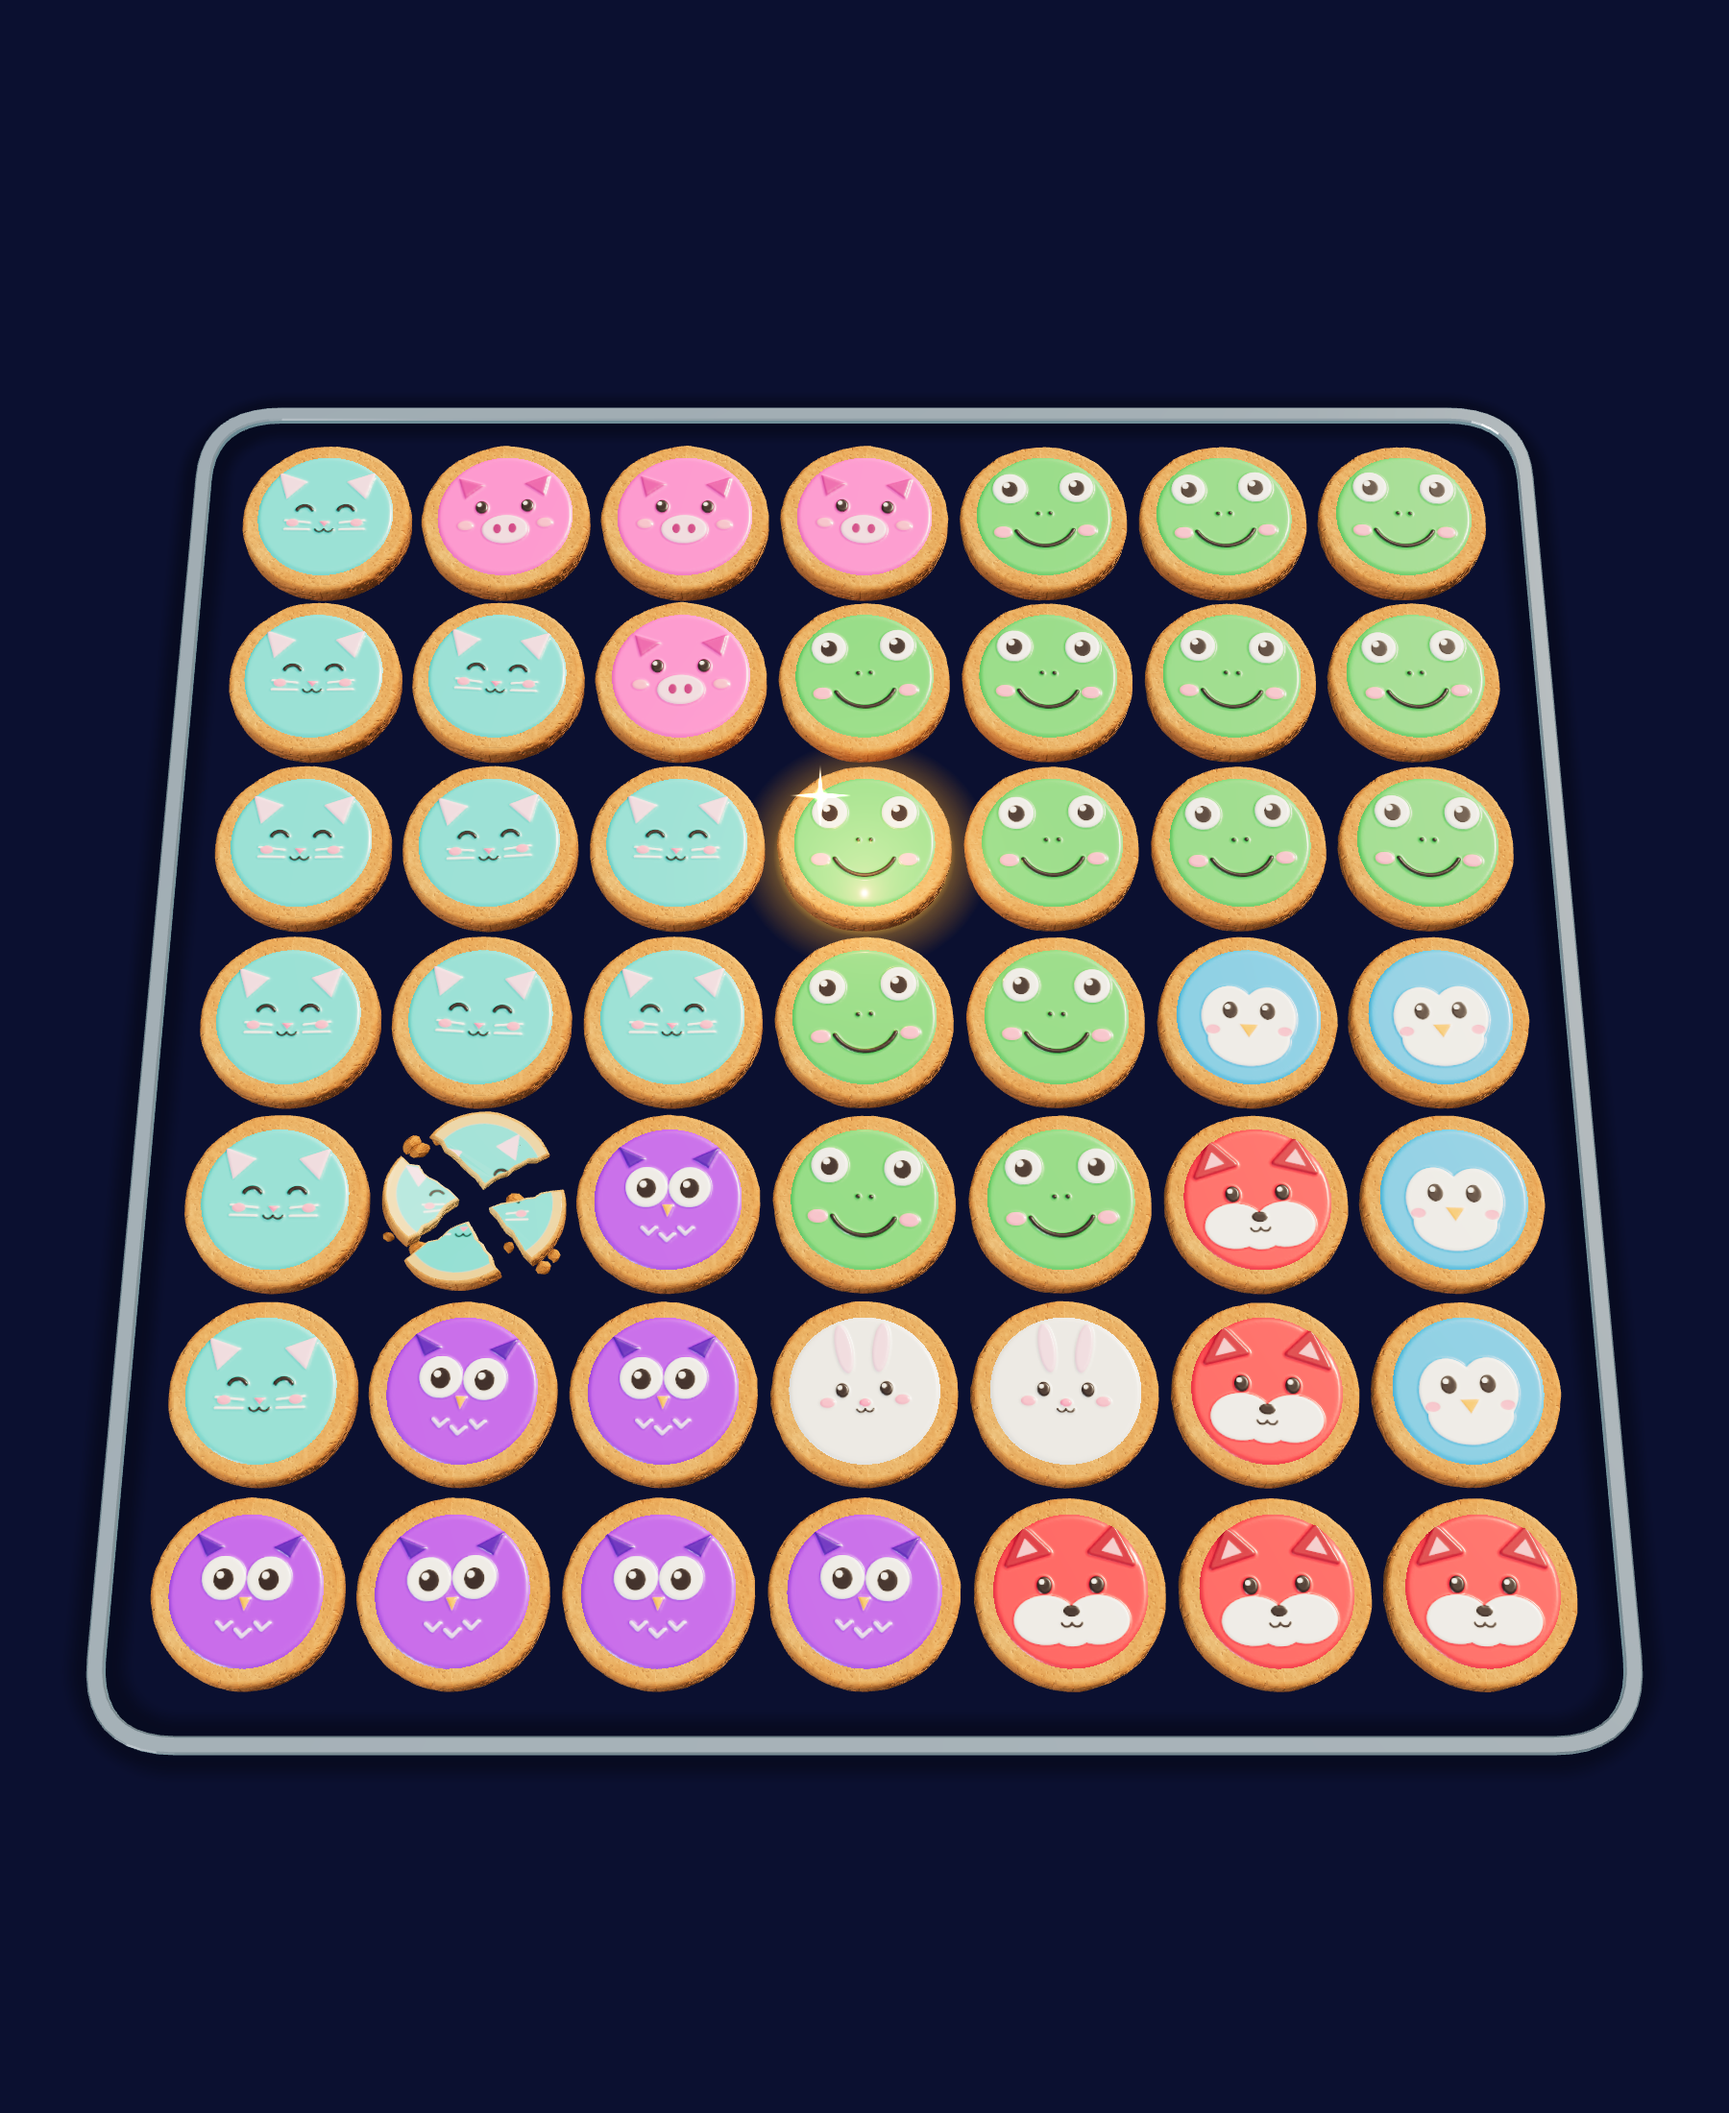
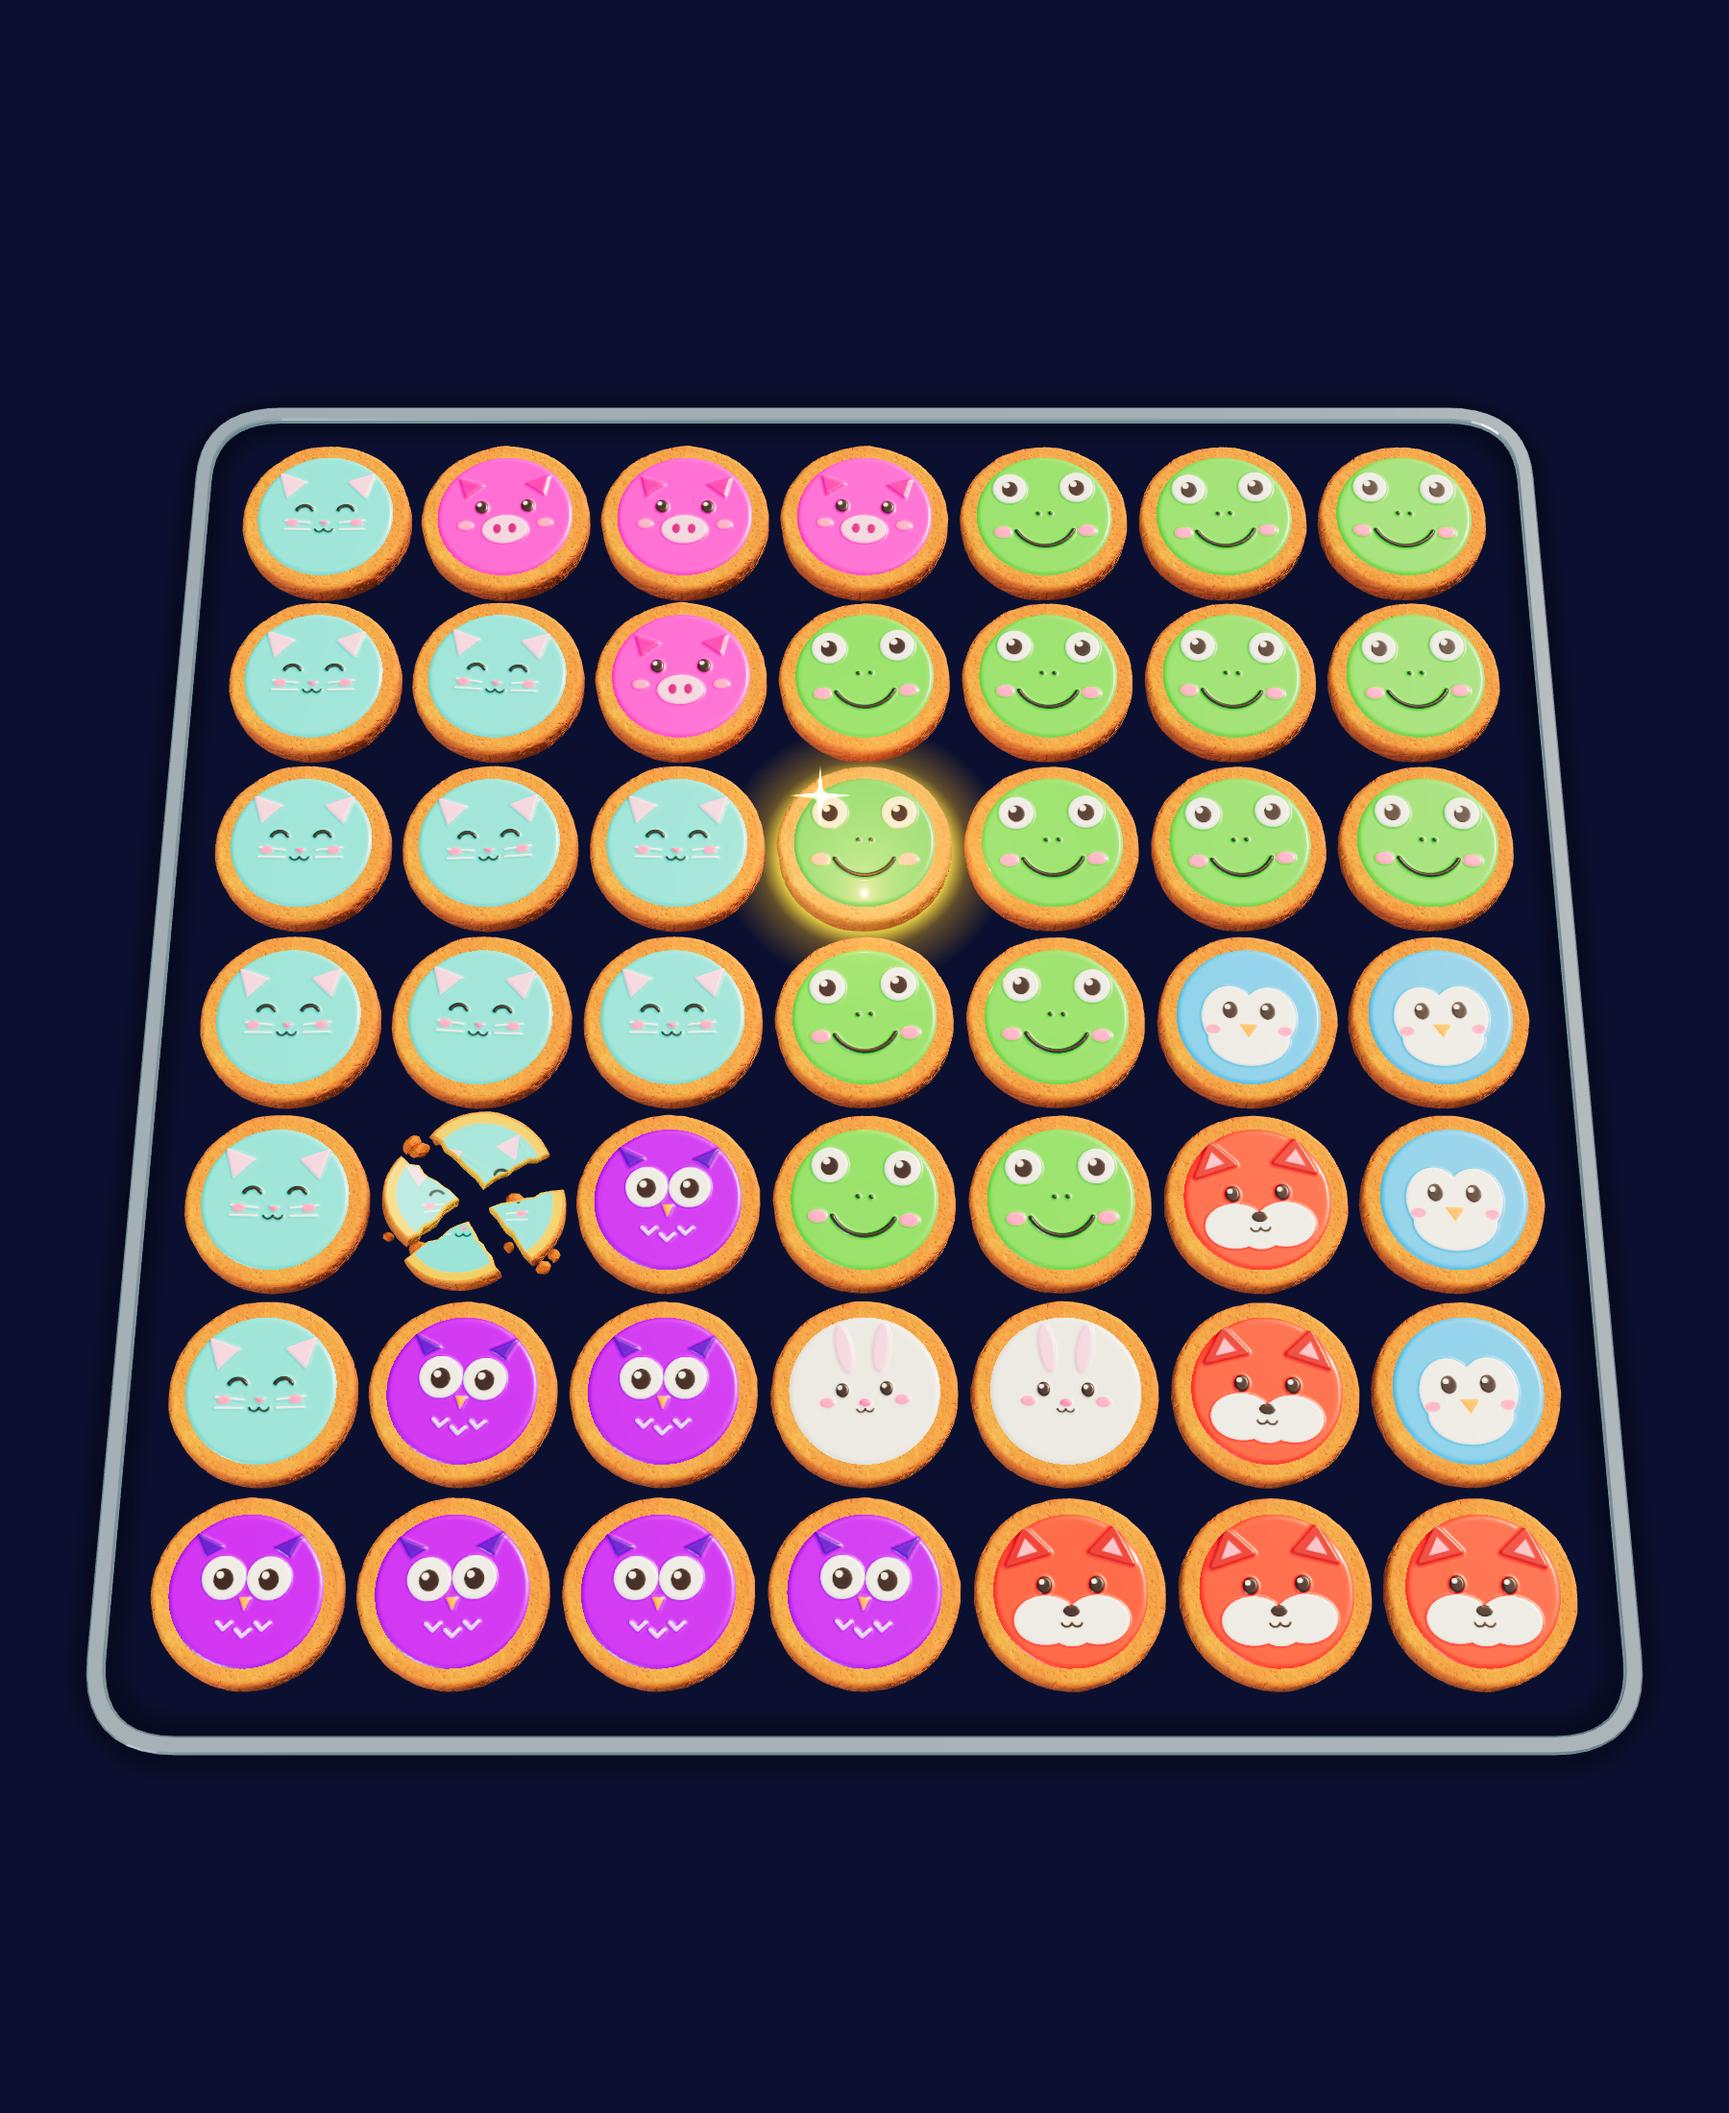
Keks-Studie: Sättigung/Glow fürs Brett (WIP)

diff --git a/design-concepts/cookies/render.html b/design-concepts/cookies/render.html
@@ -14,7 +14,7 @@ window.onerror = e => { document.documentElement.dataset.error = String(e); };
 if (VIEW === 'board') {
   // ---- the game's own board, table, lighting and camera (src/board3d.mjs), cookies instead of squishes ----
   const { createBoard3D } = await import('../../src/board3d.mjs');
-  const { THREE, buildCookie, byKey } = await import('./cookies.mjs');
+  const { THREE, buildCookie, byKey, saturate } = await import('./cookies.mjs');
   const levels = await (await fetch('../../src/levels.json')).json();
   const L = levels.find(l => l.id === +(q.get('level') || 29));
   document.body.style.background = '#0b1030';
@@ -30,9 +30,10 @@ if (VIEW === 'board') {
     const ck = buildCookie(SET, cl.value, { state, size: pitch * .47, seed: cl.r * 7 + cl.c + 1 });
     ck.position.set((cl.c - (N - 1) / 2) * pitch, P.board.top - .02, (cl.r - (N - 1) / 2) * pitch);
     ck.rotation.y = state === 'normal' ? (Math.sin(cl.r * 3.1 + cl.c * 1.7) * .05) : 0;
-    ck.traverse(o => { if (o.isMesh) { o.castShadow = true; o.receiveShadow = true; } });
+    ck.traverse(o => { if (o.isMesh) { o.castShadow = true; o.receiveShadow = true; for (const m of [].concat(o.material)) { if ('envMapIntensity' in m) m.envMapIntensity = +(q.get('env') || .5); if (m.isMeshPhysicalMaterial) saturate(m, +(q.get('sat') || 1.45)); } } });
     scene.add(ck);
   }
+  console.log('toneMapping', board.graphics.renderer.toneMapping, board.graphics.renderer.toneMappingExposure);
   board.requestFrame({ shadows: true });
   let n = 0; const tick = () => { board.refresh(); if (++n < 30) requestAnimationFrame(tick); else setTimeout(ready, 300); }; requestAnimationFrame(tick);
 } else {

diff --git a/design-concepts/cookies/render.js b/design-concepts/cookies/render.js
@@ -10,7 +10,7 @@ const SIZE = { lineup: [1600, 900], board: [900, 1100], single: [900, 700] };
   const b = await chromium.launch({ executablePath: '/usr/bin/google-chrome', args: ['--no-sandbox', '--use-angle=swiftshader', '--enable-unsafe-swiftshader', '--ignore-gpu-blocklist'] });
   for (const s of sets) for (const v of views) {
     const [w, h] = SIZE[v]; const ctx = await b.newContext({ viewport: { width: w, height: h }, deviceScaleFactor: 2 });
-    const p = await ctx.newPage(); p.on('pageerror', e => console.log('ERR', e.message)); p.on('console', m => m.type() === 'error' && console.log('C', m.text()));
+    const p = await ctx.newPage(); p.on('pageerror', e => console.log('ERR', e.message)); p.on('console', m => (m.type() === 'error' || m.text().startsWith('toneMapping')) && console.log('C', m.text()));
     const t = Date.now(); await p.goto(`${BASE}?set=${s}&view=${v}${extra}`);
     await p.waitForFunction(() => document.documentElement.dataset.ready === '1' || document.documentElement.dataset.error, null, { timeout: 600000 });
     const err = await p.evaluate(() => document.documentElement.dataset.error); if (err) console.log('ERROR', err);
